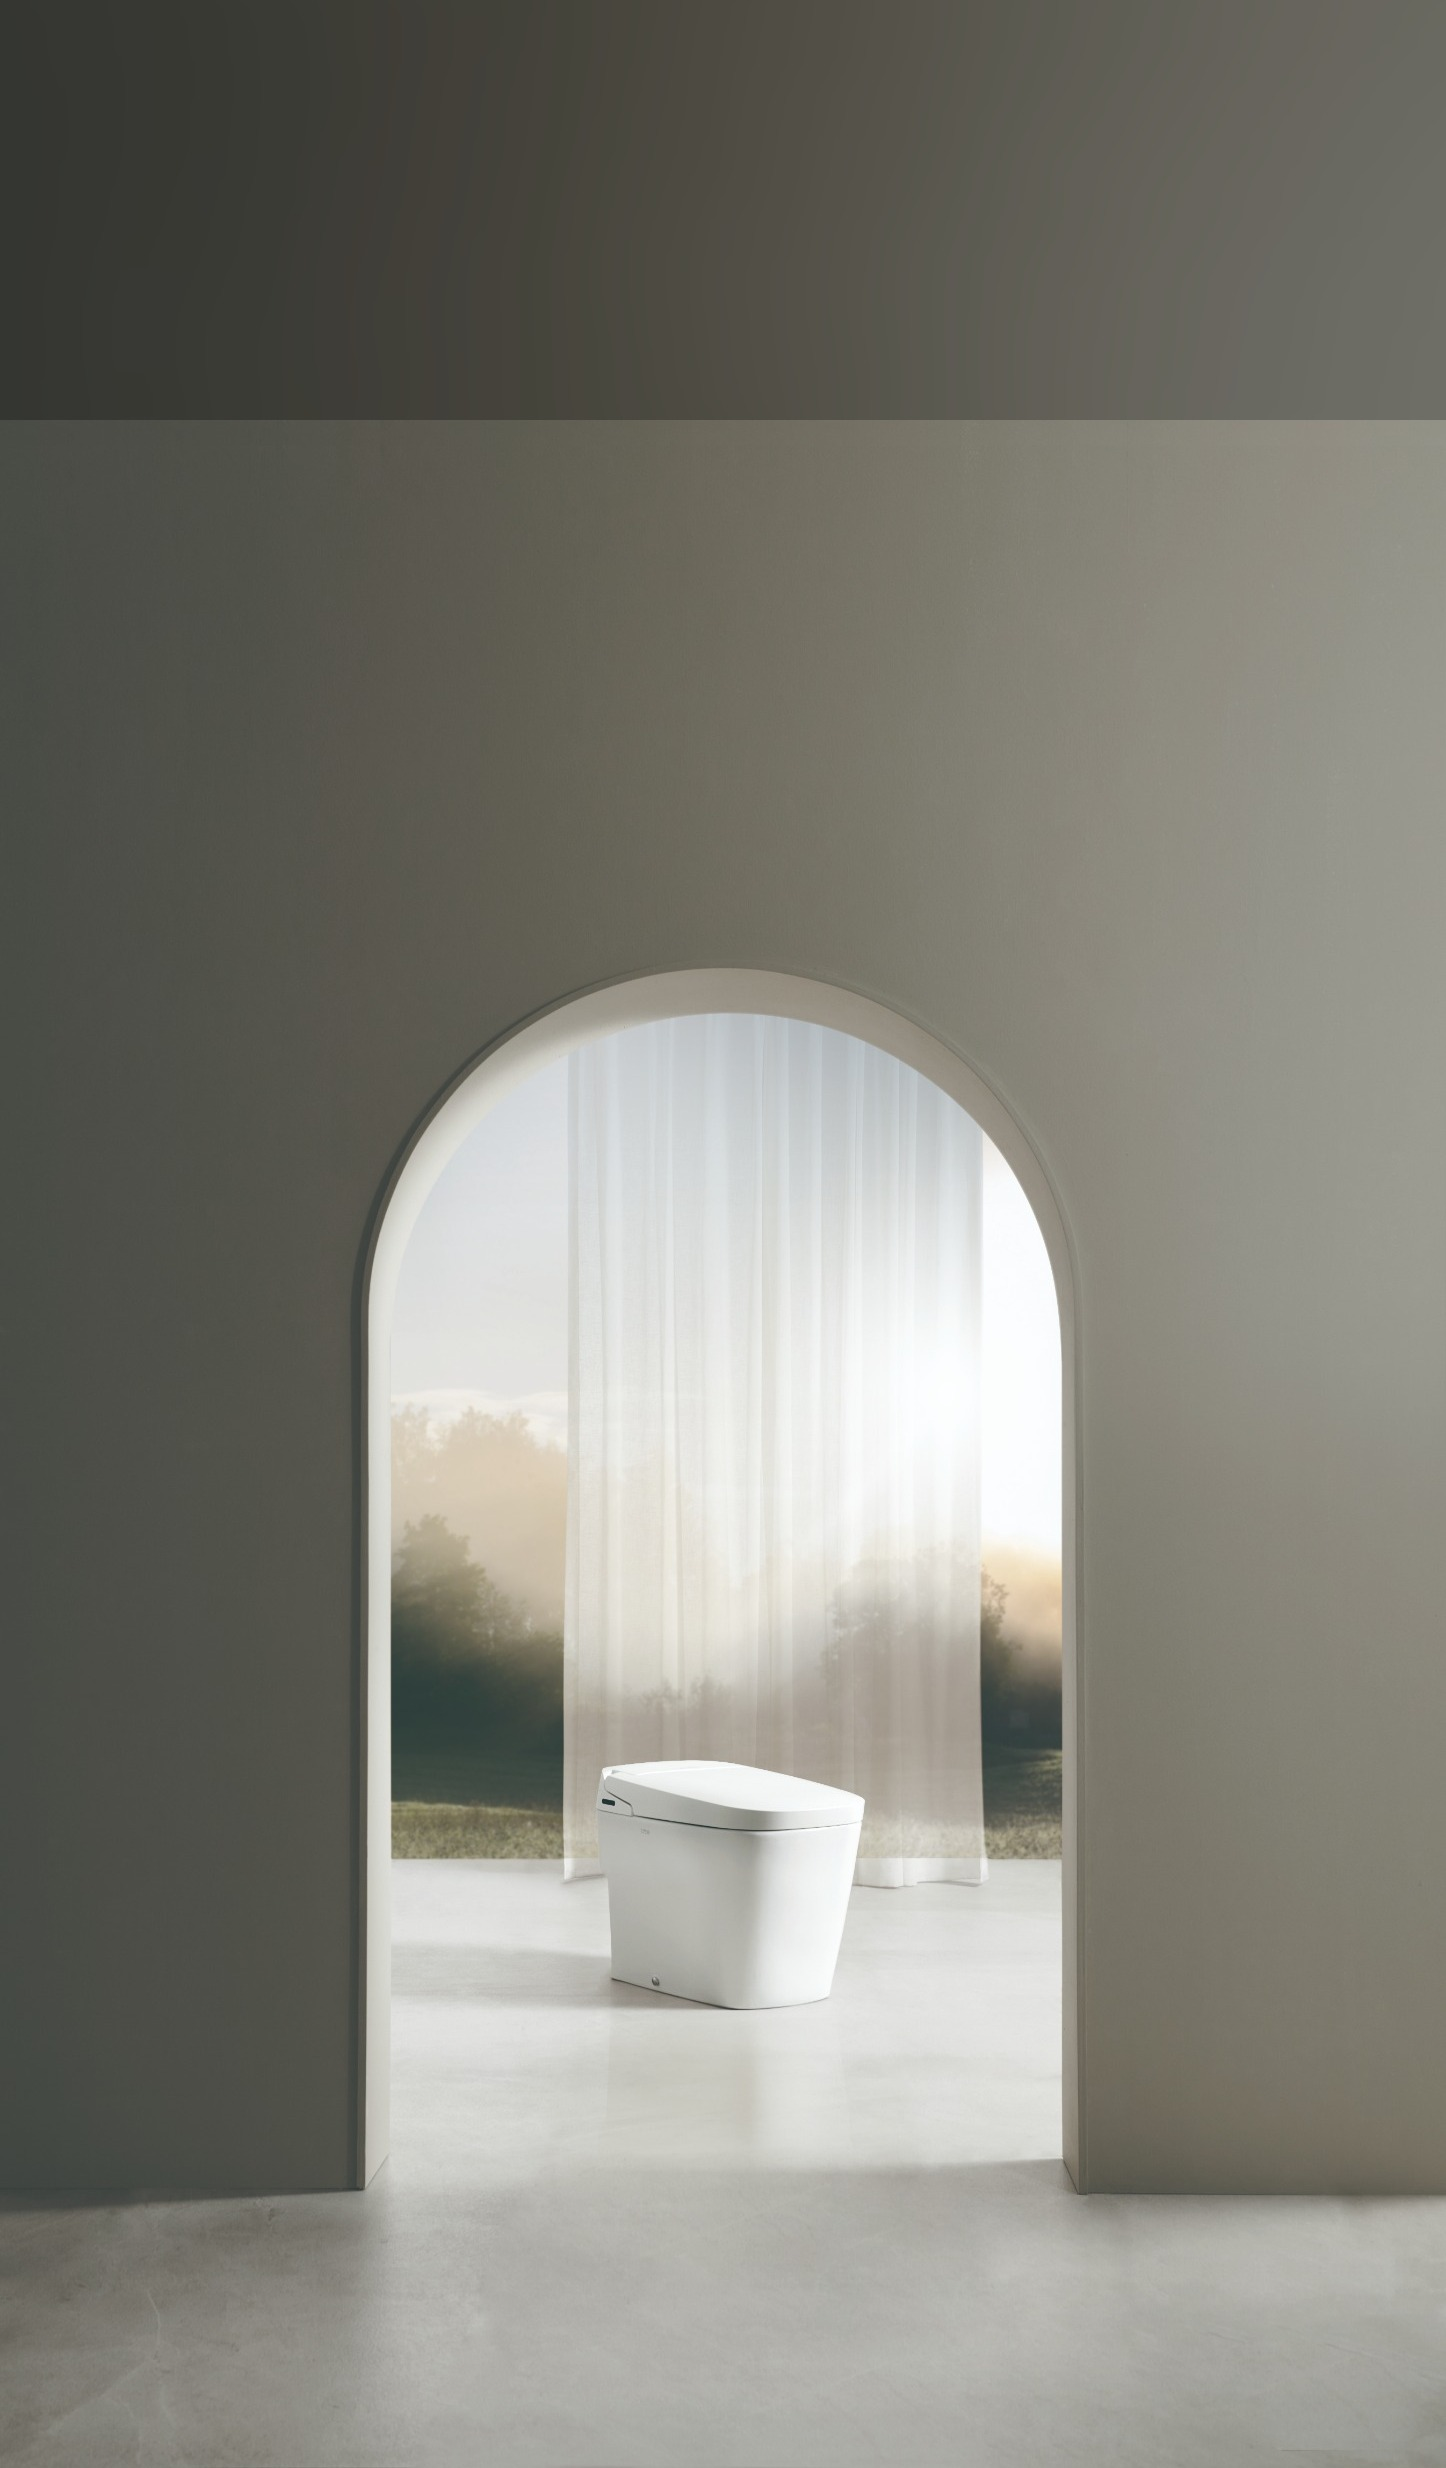
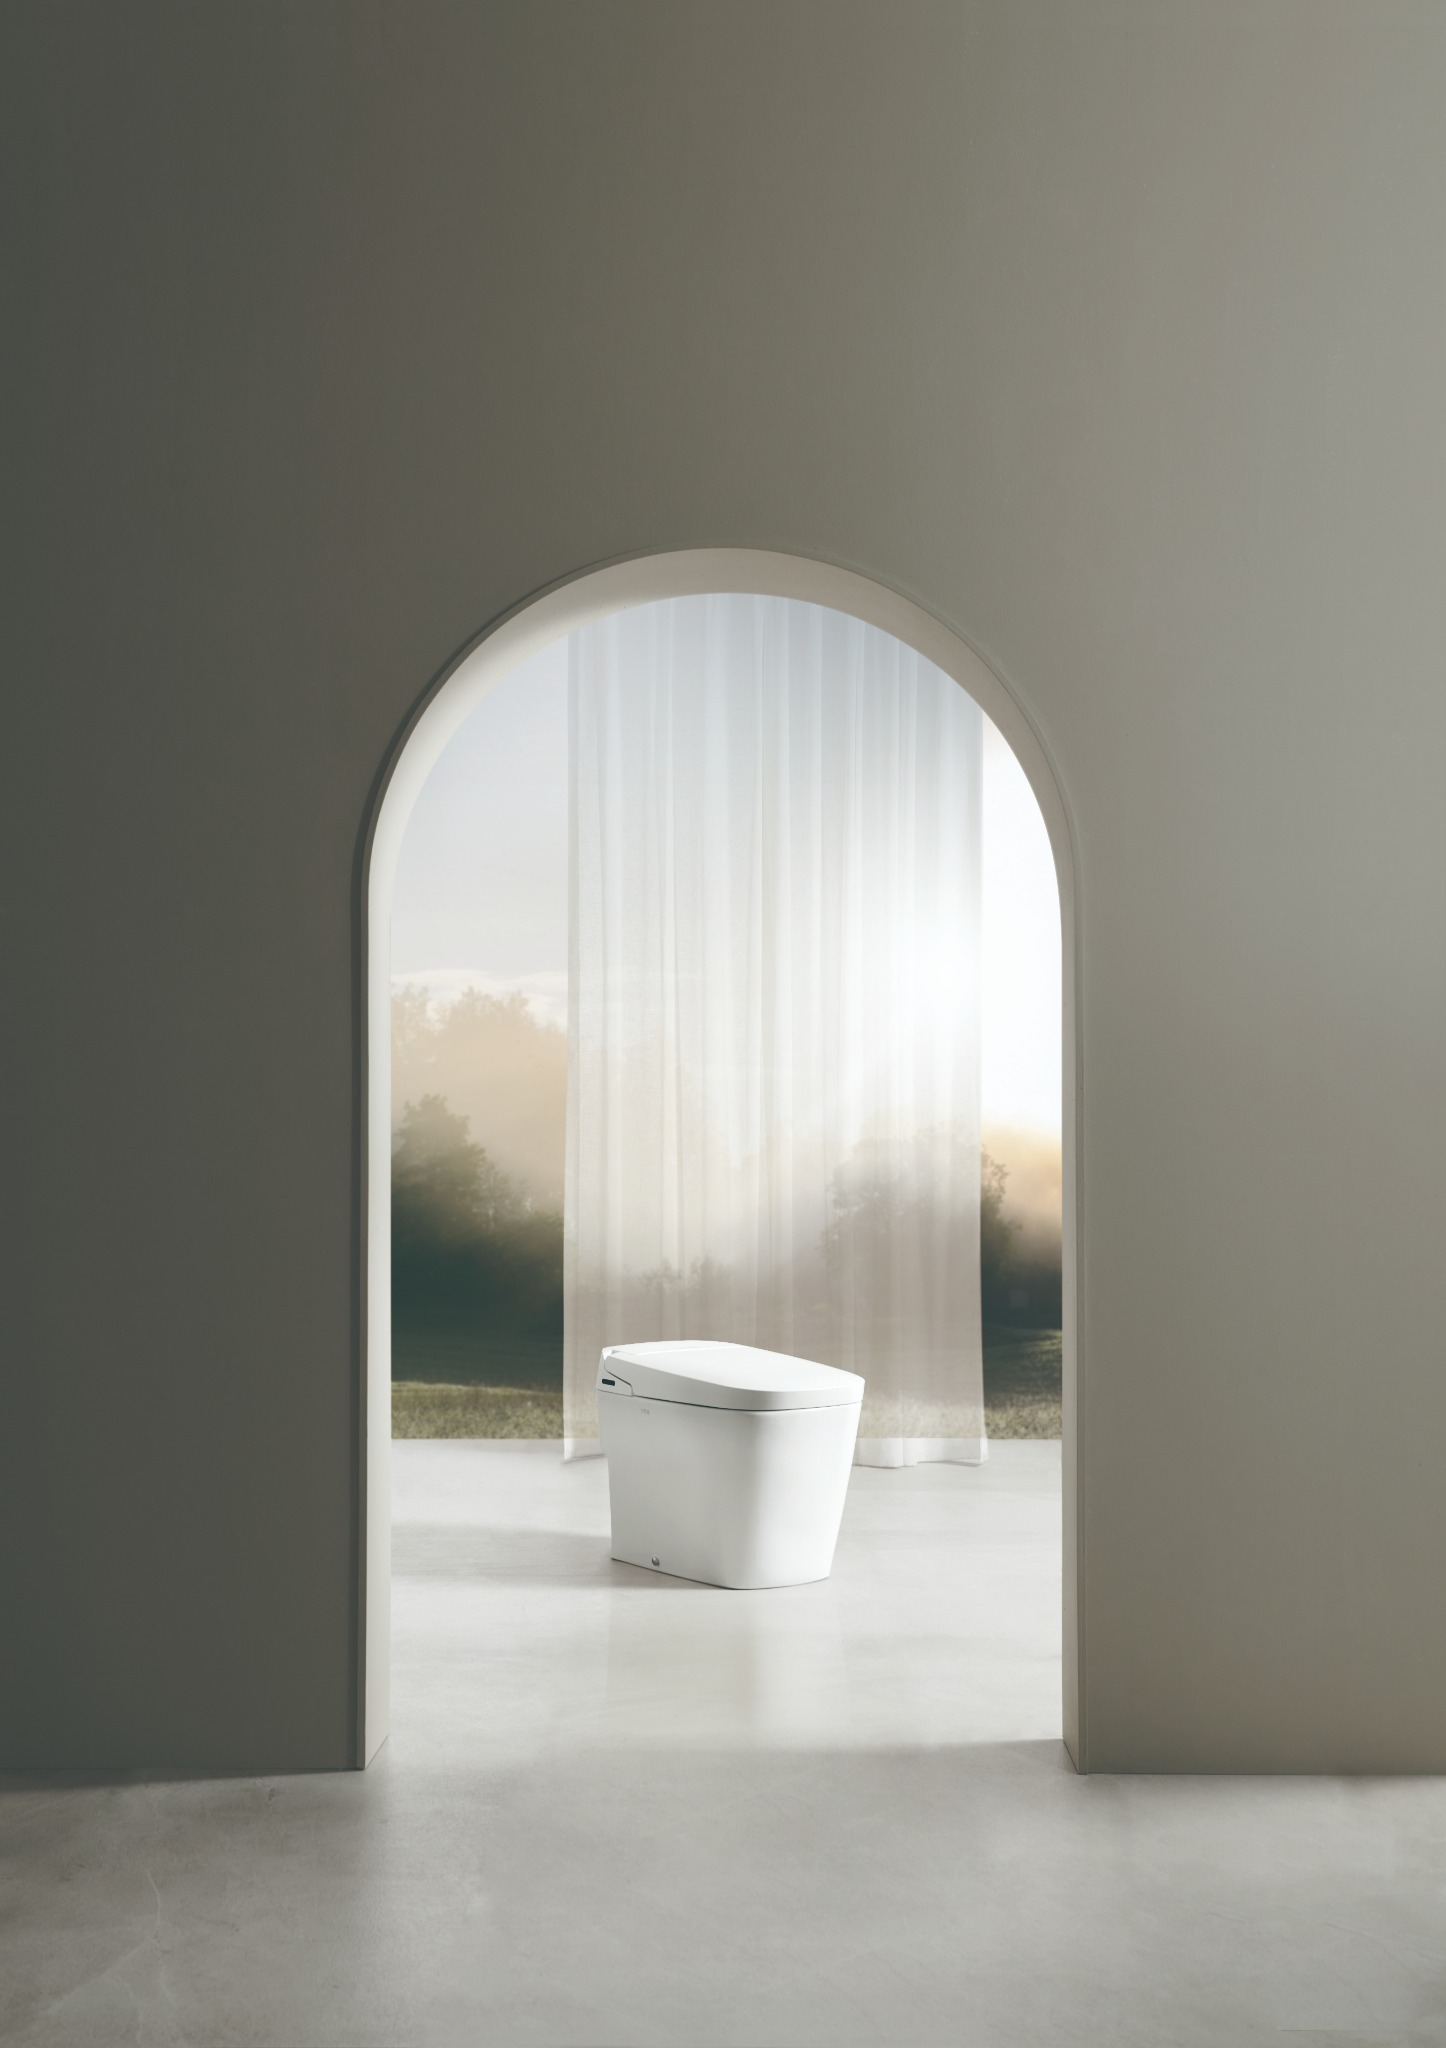
Add files via upload

diff --git a/style.css b/style.css
@@ -2,10 +2,10 @@
 
 :root {
   --white: #fff;
-  --button: rgba(255,255,255,.96);
+  --button: rgba(255,255,255,.965);
   --black: #111;
   --icon: #565656;
-  --line: rgba(255,255,255,.36);
+  --line: rgba(255,255,255,.34);
   --ease: cubic-bezier(.22, 1, .36, 1);
 }
 
@@ -16,6 +16,7 @@ body {
   background: #1d1d1a;
   color: var(--white);
   overflow-x: hidden;
+  -webkit-text-size-adjust: 100%;
 }
 
 .page {
@@ -27,7 +28,7 @@ body {
   justify-content: flex-start;
   padding: max(24px, env(safe-area-inset-top)) 0 max(24px, env(safe-area-inset-bottom));
   background-image:
-    linear-gradient(90deg, rgba(0,0,0,.72) 0%, rgba(0,0,0,.58) 26%, rgba(0,0,0,.18) 55%, rgba(0,0,0,.22) 100%),
+    linear-gradient(90deg, rgba(0,0,0,.74) 0%, rgba(0,0,0,.56) 31%, rgba(0,0,0,.13) 62%, rgba(0,0,0,.18) 100%),
     url("assets/pc-bg.jpg");
   background-size: cover;
   background-position: center center;
@@ -44,12 +45,12 @@ body {
   width: 150px;
   height: auto;
   display: block;
-  margin: 0 auto 54px;
+  margin: 0 auto 52px;
 }
 
 h1 {
   margin: 0;
-  font-size: clamp(40px, 3.1vw, 58px);
+  font-size: clamp(36px, 2.9vw, 54px); /* PC 기존보다 축소 */
   line-height: 1.08;
   font-weight: 600;
   letter-spacing: -0.05em;
@@ -57,8 +58,8 @@ h1 {
 }
 
 .hero-header p {
-  margin: 22px 0 44px;
-  font-size: clamp(24px, 1.95vw, 34px);
+  margin: 20px 0 42px;
+  font-size: clamp(20px, 1.75vw, 30px); /* PC 기존보다 축소 */
   line-height: 1.2;
   font-weight: 500;
   letter-spacing: -0.04em;
@@ -73,7 +74,7 @@ h1 {
 .link-button {
   position: relative;
   overflow: hidden;
-  height: 68px;
+  height: 66px;
   border-radius: 16px;
   display: grid;
   grid-template-columns: 56px 1fr;
@@ -82,12 +83,13 @@ h1 {
   color: var(--black);
   background: var(--button);
   text-decoration: none;
-  font-size: 19px;
+  font-size: 18px;
   font-weight: 600;
   letter-spacing: -0.035em;
   box-shadow: 0 1px 0 rgba(255,255,255,.55) inset, 0 14px 30px rgba(0,0,0,.08);
   transform: translateZ(0);
   transition: color .35s var(--ease), transform .22s var(--ease), box-shadow .35s var(--ease);
+  -webkit-tap-highlight-color: transparent;
 }
 
 .link-button::before {
@@ -118,7 +120,7 @@ h1 {
   flex: 0 0 auto;
   transition: color .35s var(--ease), background .35s var(--ease);
 }
-.btn-icon svg { width: 100%; height: 100%; display:block; fill: currentColor; }
+.btn-icon svg { width: 100%; height: 100%; display:block; fill: currentColor; overflow: visible; }
 .btn-icon.naver, .btn-icon.tmap {
   border-radius: 50%;
   background: var(--icon);
@@ -137,26 +139,52 @@ h1 {
 .divider {
   height: 1px;
   background: var(--line);
-  margin: 44px 0 32px;
+  margin: 42px 0 30px;
 }
 .info-list {
   display: grid;
-  gap: 20px;
+  gap: 19px;
   text-align: center;
-  font-size: 18px;
+  font-size: 17px;
   font-weight: 600;
   line-height: 1.35;
   letter-spacing: -0.035em;
 }
-.info-list p {
+.info-row {
   margin: 0;
   display: flex;
   justify-content: center;
   align-items: center;
-  gap: 14px;
+  gap: 13px;
 }
-.info-icon { width: 21px; height: 21px; flex: 0 0 auto; }
-.info-icon svg { width: 100%; height: 100%; fill: #fff; display: block; }
+.info-link {
+  color: #fff !important;
+  text-decoration: none !important;
+  -webkit-text-decoration: none !important;
+  display: inline-flex;
+  align-items: center;
+  justify-content: center;
+  gap: 13px;
+  font: inherit;
+}
+.info-link:visited,
+.info-link:hover,
+.info-link:active,
+.info-link:focus {
+  color: #fff !important;
+  text-decoration: none !important;
+}
+.info-icon {
+  width: 20px;
+  height: 20px;
+  min-width: 20px;
+  display: inline-flex;
+  align-items: center;
+  justify-content: center;
+  flex: 0 0 20px;
+  color: #fff;
+}
+.info-icon svg { width: 100%; height: 100%; fill: currentColor; display: block; overflow: visible; }
 
 .fade-in { animation: fadeUp .75s var(--ease) both; }
 .fade-1 { animation-delay: .03s; }
@@ -170,12 +198,13 @@ h1 {
   .page {
     min-height: 100svh;
     display: block;
-    padding: max(36px, env(safe-area-inset-top)) 0 max(34px, env(safe-area-inset-bottom));
+    padding: max(34px, env(safe-area-inset-top)) 0 max(28px, env(safe-area-inset-bottom));
     background-image:
-      linear-gradient(180deg, rgba(0,0,0,.25) 0%, rgba(0,0,0,.17) 42%, rgba(0,0,0,.40) 100%),
+      linear-gradient(180deg, rgba(0,0,0,.10) 0%, rgba(0,0,0,.16) 44%, rgba(0,0,0,.35) 100%),
       url("assets/mobile-bg.jpg");
     background-size: cover;
     background-position: center top;
+    background-repeat: no-repeat;
   }
   .content-card {
     width: min(86vw, 390px);
@@ -183,134 +212,70 @@ h1 {
     text-align: center;
   }
   .logo {
-    width: 116px;
-    margin: 0 auto 42px;
+    width: 112px;
+    margin: 0 auto 34px;
   }
   h1 {
-    font-size: clamp(25px, 7.2vw, 31px);
+    font-size: clamp(21px, 5.9vw, 25px); /* MO 6pt 축소 */
     line-height: 1.12;
     font-weight: 600;
     letter-spacing: -0.055em;
   }
   .hero-header p {
-    margin: 15px 0 34px;
-    font-size: clamp(18px, 5vw, 22px);
+    margin: 12px 0 26px;
+    font-size: clamp(14px, 4vw, 17px); /* MO 6pt 축소 */
     line-height: 1.18;
     font-weight: 500;
   }
   .button-grid {
     display: grid;
     grid-template-columns: 1fr;
-    gap: 17px;
+    gap: 13px;
   }
   .link-button {
-    height: 55px;
-    border-radius: 22px;
-    grid-template-columns: 58px 1fr 38px;
-    padding: 0 19px;
-    font-size: clamp(18px, 5vw, 21px);
+    height: 45px; /* MO 버튼 세로 축소 */
+    border-radius: 18px;
+    grid-template-columns: 44px 1fr 28px;
+    padding: 0 15px;
+    font-size: clamp(14px, 3.9vw, 16px); /* MO 버튼 텍스트 6pt 축소 */
     font-weight: 500;
   }
   .btn-label {
     margin-left: 0;
     justify-self: center;
-    transform: translateX(-10px);
+    transform: translateX(-4px);
   }
-  .btn-icon { width: 27px; height: 27px; }
-  .btn-icon.naver, .btn-icon.tmap { font-size: 17px; }
-  .divider { margin: 31px 0 24px; }
+  .btn-icon { width: 24px; height: 24px; }
+  .btn-icon.naver, .btn-icon.tmap { font-size: 15px; }
+  .divider { margin: 23px 0 18px; }
   .info-list {
-    gap: 15px;
-    font-size: clamp(15px, 4.2vw, 17px);
+    gap: 10px;
+    font-size: clamp(12px, 3.5vw, 14px); /* 하단 쇼룸 정보 3pt 축소 */
     font-weight: 500;
     letter-spacing: -0.045em;
   }
-  .info-list p { gap: 10px; }
-  .info-icon { width: 18px; height: 18px; }
+  .info-row, .info-link { gap: 8px; }
+  .info-icon { width: 15px; height: 15px; min-width: 15px; flex-basis: 15px; }
 }
 
 @media (max-width: 380px) {
   .content-card { width: 88vw; }
-  .logo { width: 106px; margin-bottom: 34px; }
-  .hero-header p { margin-bottom: 28px; }
-  .button-grid { gap: 14px; }
-  .link-button { height: 51px; border-radius: 19px; font-size: 17px; }
-  .btn-icon { width: 25px; height: 25px; }
-  .info-list { font-size: 14px; gap: 12px; }
+  .logo { width: 104px; margin-bottom: 28px; }
+  .hero-header p { margin-bottom: 22px; }
+  .button-grid { gap: 11px; }
+  .link-button { height: 42px; border-radius: 16px; font-size: 14px; }
+  .btn-icon { width: 22px; height: 22px; }
+  .info-list { font-size: 12px; gap: 9px; }
+  .info-icon { width: 14px; height: 14px; min-width: 14px; flex-basis: 14px; }
 }
 
 @media (min-width: 1024px) and (max-width: 1350px) {
   .content-card { width: min(520px, 41vw); margin-left: 7vw; }
-  .logo { width: 130px; margin-bottom: 40px; }
-  h1 { font-size: 36px; }
-  .hero-header p { font-size: 24px; margin-bottom: 34px; }
-  .link-button { height: 58px; font-size: 16px; }
+  .logo { width: 130px; margin-bottom: 38px; }
+  h1 { font-size: 32px; }
+  .hero-header p { font-size: 20px; margin-bottom: 32px; }
+  .link-button { height: 56px; font-size: 15px; }
   .button-grid { gap: 16px; }
-  .divider { margin: 36px 0 26px; }
-  .info-list { font-size: 15px; gap: 15px; }
-}
-
-/* iOS/Samsung browser auto-link style reset */
-a[href^="tel"],
-.info-list a,
-.info-list a:visited,
-.info-list a:hover,
-.info-list a:active {
-  color: inherit !important;
-  text-decoration: none !important;
-  -webkit-text-fill-color: currentColor;
-}
-
-
-/* FINAL PATCH: prevent mobile browsers from auto-styling phone/address text */
-.info-list,
-.info-list *,
-.info-list a,
-.info-list a:link,
-.info-list a:visited,
-.info-list a:hover,
-.info-list a:active,
-.info-list [x-apple-data-detectors],
-.info-list [x-apple-data-detectors-type="telephone"] {
-  color: #fff !important;
-  text-decoration: none !important;
-  -webkit-text-decoration-color: transparent !important;
-  text-decoration-color: transparent !important;
-  border-bottom: 0 !important;
-}
-.phone-number {
-  display: inline-flex;
-  align-items: center;
-  justify-content: center;
-  gap: 0;
-  color: #fff !important;
-  text-decoration: none !important;
-  white-space: nowrap;
-}
-.phone-number .hyphen { padding: 0 .02em; }
-.info-icon {
-  display: inline-flex;
-  align-items: center;
-  justify-content: center;
-  transform: translateY(0.02em);
-}
-.info-icon svg {
-  fill: #fff !important;
-  overflow: visible;
-}
-
-@media (max-width: 1023px) {
-  .info-list p {
-    display: flex;
-    justify-content: center;
-    align-items: center;
-    gap: 9px;
-    width: 100%;
-  }
-  .info-icon {
-    width: 16px;
-    height: 16px;
-    flex: 0 0 16px;
-  }
-  .info-list { font-size: clamp(14px, 3.9vw, 16px); }
+  .divider { margin: 34px 0 24px; }
+  .info-list { font-size: 14px; gap: 14px; }
 }

diff --git a/index.html b/index.html
@@ -3,13 +3,12 @@
 <head>
   <meta charset="utf-8" />
   <meta name="viewport" content="width=device-width, initial-scale=1, viewport-fit=cover" />
-  <meta name="format-detection" content="telephone=no, date=no, address=no, email=no" />
+  <meta name="format-detection" content="telephone=no" />
   <title>대림바스 논현직영쇼룸 오시는 길</title>
   <meta name="description" content="대림바스 논현직영쇼룸 오시는 길 안내 페이지" />
   <meta property="og:title" content="대림바스 논현직영쇼룸 오시는 길" />
   <meta property="og:description" content="네이버 플레이스, 네이버 지도, 카카오맵, 티맵 바로가기" />
-  <link rel="preconnect" href="https://cdn.jsdelivr.net" crossorigin>
-  <link rel="stylesheet" href="style.css?v=[phone redacted]-phone-icon-fixed-v3" />
+  <link rel="stylesheet" href="style.css?v=[phone redacted]-tel-icon-final" />
 </head>
 <body>
   <main class="page" aria-label="대림바스 논현직영쇼룸 오시는 길">
@@ -26,15 +25,11 @@
           <span class="btn-label">네이버 플레이스</span>
         </a>
         <a class="link-button" href="https://naver.me/Gfr5wNoV" target="_blank" rel="noopener noreferrer">
-          <span class="btn-icon pin naver-pin" aria-hidden="true">
-            <svg viewBox="0 0 24 24" role="img"><path d="M12 2.6c-4 0-7.2 3.1-7.2 7 0 5.2 7.2 11.8 7.2 11.8s7.2-6.6 7.2-11.8c0-3.9-3.2-7-7.2-7z"/><circle cx="12" cy="9.7" r="2.5" fill="white"/><text x="12" y="10.7" text-anchor="middle" font-size="3.4" font-weight="800" fill="#555">N</text></svg>
-          </span>
+          <span class="btn-icon pin" aria-hidden="true"><svg viewBox="0 0 24 24"><path d="M12 2.5c-4.15 0-7.5 3.25-7.5 7.25C4.5 15.45 12 21.5 12 21.5s7.5-6.05 7.5-11.75c0-4-3.35-7.25-7.5-7.25z"/><circle cx="12" cy="9.85" r="2.55" fill="white"/><text x="12" y="11" text-anchor="middle" font-size="3.45" font-weight="800" fill="#555">N</text></svg></span>
           <span class="btn-label">네이버 지도</span>
         </a>
         <a class="link-button" href="https://place.map.kakao.com/966576267" target="_blank" rel="noopener noreferrer">
-          <span class="btn-icon pin" aria-hidden="true">
-            <svg viewBox="0 0 24 24" role="img"><path d="M12 2.6c-4 0-7.2 3.1-7.2 7 0 5.2 7.2 11.8 7.2 11.8s7.2-6.6 7.2-11.8c0-3.9-3.2-7-7.2-7z"/><circle cx="12" cy="9.6" r="2.6" fill="white"/></svg>
-          </span>
+          <span class="btn-icon pin" aria-hidden="true"><svg viewBox="0 0 24 24"><path d="M12 2.5c-4.15 0-7.5 3.25-7.5 7.25C4.5 15.45 12 21.5 12 21.5s7.5-6.05 7.5-11.75c0-4-3.35-7.25-7.5-7.25z"/><circle cx="12" cy="9.85" r="2.7" fill="white"/></svg></span>
           <span class="btn-label">카카오맵</span>
         </a>
         <a class="link-button" href="https://tmap.life/bef06008" target="_blank" rel="noopener noreferrer">
@@ -46,16 +41,18 @@
       <div class="divider fade-in fade-3" aria-hidden="true"></div>
 
       <section class="info-list fade-in fade-4" aria-label="쇼룸 정보">
-        <p>
-          <span class="info-icon" aria-hidden="true"><svg viewBox="0 0 24 24"><path d="M12 2.5c-4 0-7.2 3.1-7.2 7 0 5.2 7.2 11.9 7.2 11.9s7.2-6.7 7.2-11.9c0-3.9-3.2-7-7.2-7z"/><circle cx="12" cy="9.6" r="2.4" fill="#fff"/></svg></span>
+        <p class="info-row">
+          <span class="info-icon" aria-hidden="true"><svg viewBox="0 0 24 24"><path d="M12 2.5c-4.15 0-7.5 3.25-7.5 7.25C4.5 15.45 12 21.5 12 21.5s7.5-6.05 7.5-11.75c0-4-3.35-7.25-7.5-7.25z"/><circle cx="12" cy="9.85" r="2.65" fill="#fff"/></svg></span>
           <span>서울 강남구 학동로 105 JAY빌딩 1층</span>
         </p>
-        <p>
-          <span class="info-icon" aria-hidden="true"><svg viewBox="0 0 24 24"><path d="M6.8 3.3 4.2 5.9c-.8.8-.9 2-.4 3 1.1 2.2 2.7 4.4 4.7 6.4 2 2 4.2 3.6 6.4 4.7 1 .5 2.2.4 3-.4l2.6-2.6c.5-.5.5-1.3 0-1.8l-3.1-3.1c-.4-.4-1.1-.5-1.7-.2l-2 1.1c-1.5-.8-2.8-1.8-4-3s-2.2-2.5-3-4l1.1-2c.3-.6.2-1.2-.2-1.7L8.6 3.3c-.5-.5-1.3-.5-1.8 0z"/></svg></span>
-          <span class="phone-number" aria-label="[phone redacted]"><span>0507</span><span class="hyphen">-</span><span>1344</span><span class="hyphen">-</span><span>0162</span></span>
+        <p class="info-row">
+          <a class="info-link" href="tel:[phone redacted]" aria-label="전화 걸기 [phone redacted]">
+            <span class="info-icon" aria-hidden="true"><svg viewBox="0 0 24 24"><path d="M7.15 3.15 4.45 5.85c-.82.82-.94 2.1-.36 3.16 1.13 2.1 2.69 4.18 4.66 6.15 1.97 1.97 4.05 3.53 6.15 4.66 1.06.58 2.34.46 3.16-.36l2.7-2.7c.5-.5.5-1.31 0-1.81l-3.08-3.08c-.43-.43-1.09-.51-1.62-.22l-2.13 1.17a13.75 13.75 0 0 1-4.75-4.75l1.17-2.13c.29-.53.21-1.19-.22-1.62L8.96 3.15c-.5-.5-1.31-.5-1.81 0z"/></svg></span>
+            <span>0507-1344-0162</span>
+          </a>
         </p>
-        <p>
-          <span class="info-icon" aria-hidden="true"><svg viewBox="0 0 24 24"><path d="M12 2.8a9.2 9.2 0 1 0 0 18.4 9.2 9.2 0 0 0 0-18.4zm1 4.6v4.3l3.2 2.1-.9 1.5-4.1-2.7V7.4H13z"/></svg></span>
+        <p class="info-row">
+          <span class="info-icon" aria-hidden="true"><svg viewBox="0 0 24 24"><path d="M12 2.75a9.25 9.25 0 1 0 0 18.5 9.25 9.25 0 0 0 0-18.5zm1.05 4.55v4.2l3.25 2.1-.96 1.53L11 12.35V7.3h2.05z"/></svg></span>
           <span>Mon – Sun / 10:00am – 20:00pm</span>
         </p>
       </section>

diff --git a/script.js b/script.js
@@ -1,1 +1,1 @@
-// 현재 페이지는 정적 링크 페이지입니다. GitHub Pages에서 별도 빌드 없이 동작합니다.
+// GitHub Pages 정적 페이지용. 현재 별도 스크립트 없이 CSS 애니메이션 중심으로 동작합니다.